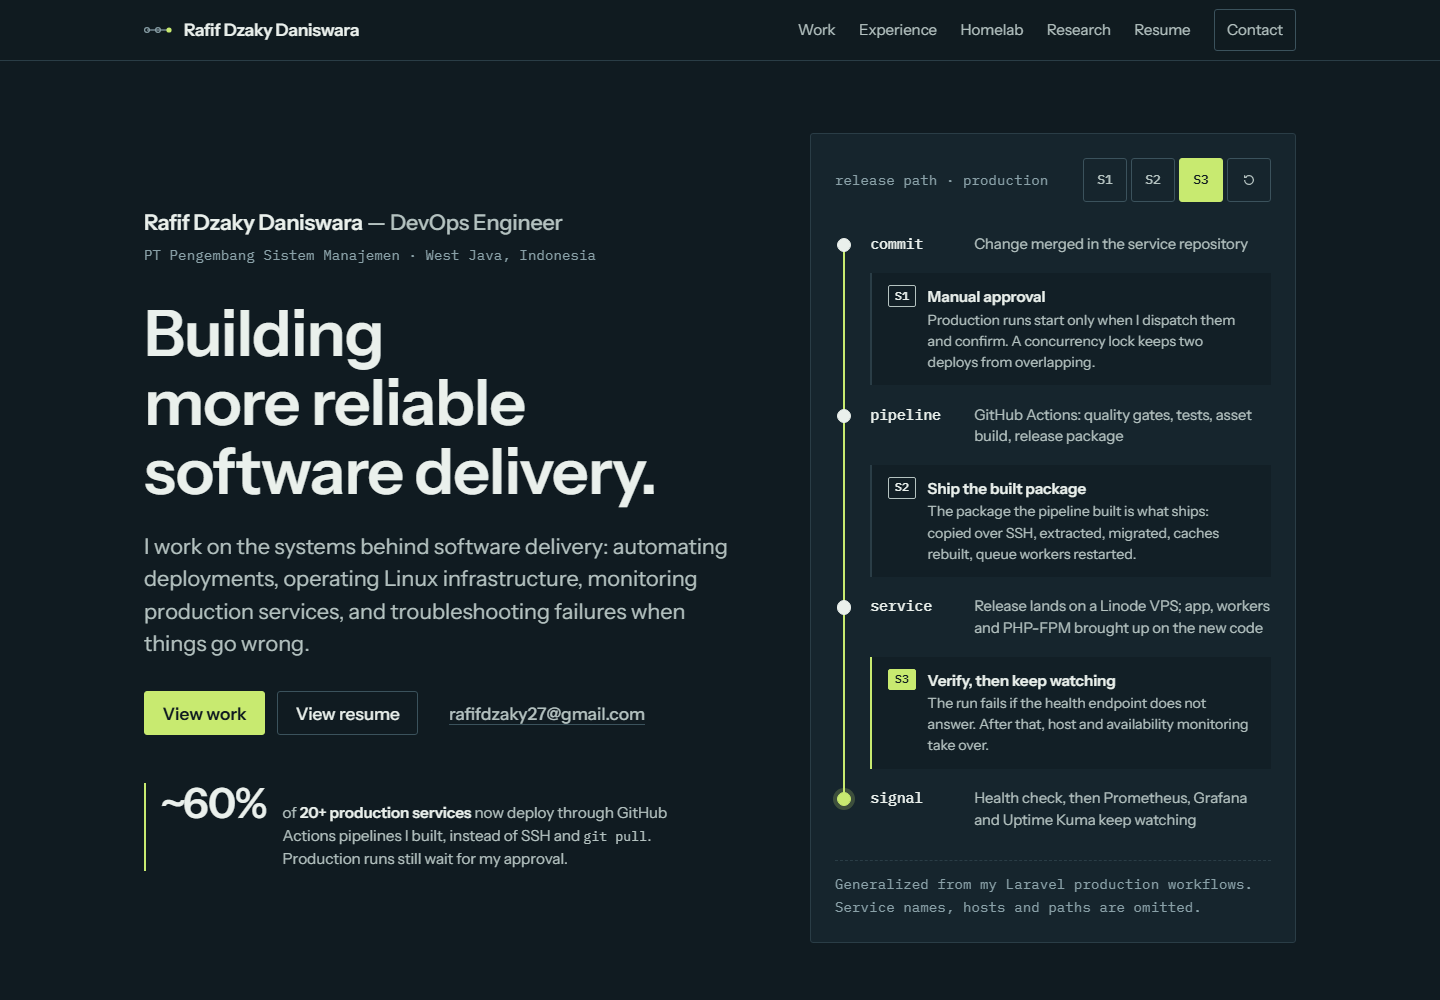
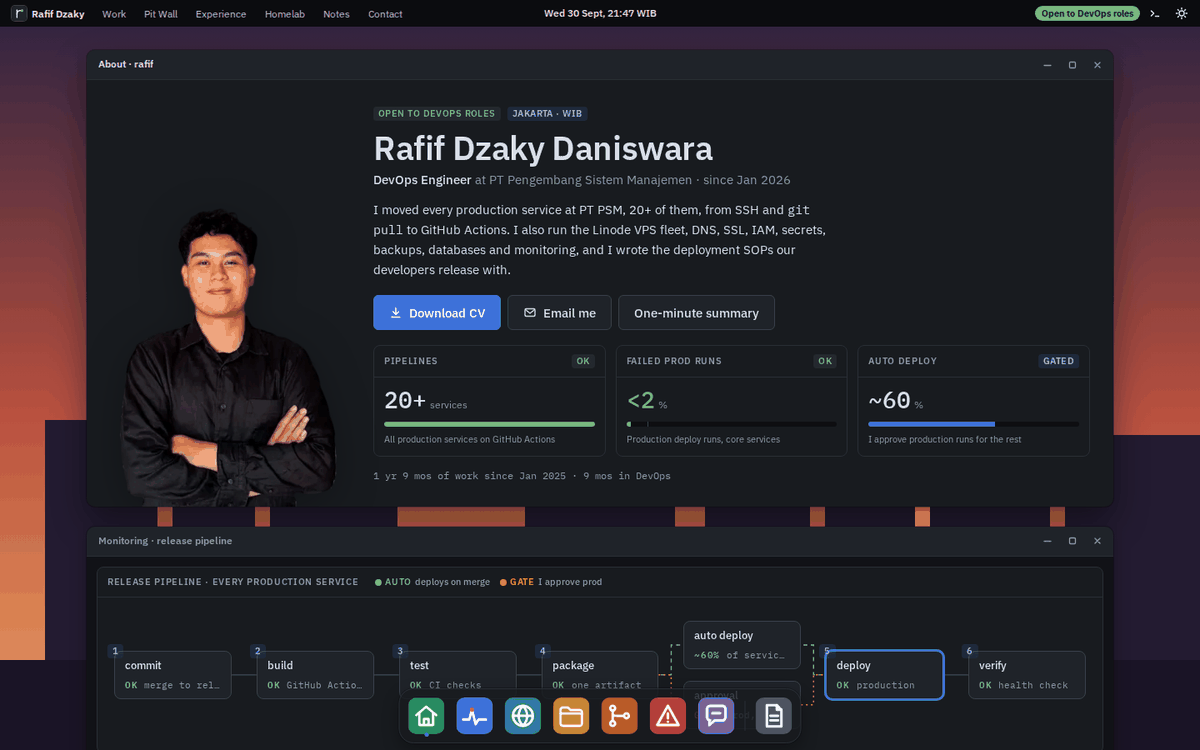
docs: README and design rationale for the PitOS redesign
Describe the PitOS windows, tokens, type and deploy flow, list the new
paths, and replace the preview screenshot.

diff --git a/docs/design-rationale.md b/docs/design-rationale.md
@@ -1,35 +1,56 @@
-# Design rationale: "Release boarding pass"
+# Design rationale: PitOS
 
-**Who visits:** recruiters and hiring managers for DevOps, cloud infrastructure,
-SRE and platform roles. In under a minute they should see who Rafif is (photo,
-role, education seal), the headline evidence (20+ services, <2% failed prod
-runs) and how to reach him.
+**Who visits:** recruiters and hiring managers for DevOps, SRE, platform and
+infrastructure roles. In under a minute they should see who Rafif is, the
+headline evidence (20+ services on GitHub Actions, <2% failed production
+runs, ~60% deployed automatically) and how to reach him.
 
-**Idea:** a release is a trip from `commit` to `production`. The hero is a
-boarding pass (photo stub, passenger fields, an ink stamp for S.Kom · GPA 3.87
-· cum laude). Sections are "gates", experience is an itinerary, and contact is
-the final call. The route map shows the real 60% split: an auto lane, and a
-production lane that stops at Rafif's approval gate.
+**Idea:** the site uses the desktop from Pit Wall On-Call, the on-call game
+Rafif builds and runs. That desktop is called PitOS. Each section is an app
+window, so the page reads like a shift at work:
 
-**Palette (light only, one surface family):**
+| Window | App it borrows from | What it holds |
+|---|---|---|
+| About | Home | Photo, role, three headline numbers, CV and email |
+| Release pipeline | Monitoring | The release pipeline as a service map, case studies, what he runs |
+| Pit Wall On-Call | Browser | The game, how it ships, the game-day log |
+| ~/experience | Files | Jobs, degree and certificates, with filters |
+| Homelab | Monitoring | A small service map of the homelab |
+| ~/notes | Files | Postmortems, decisions, status and research |
+| Contact | Settings | Email, phone, LinkedIn, GitHub |
 
-| Token | Use |
-|---|---|
-| `--paper` #F6F1E7 / `--paper-2` #EFE8DA | page / alternating bands |
-| `--card` #FFFDF8 | tickets and cards |
-| `--ink` #1F2A2E | text, ticket outlines |
-| `--muted` #56646A | secondary text |
-| `--accent` #2D7D9A | actions, active nav, the auto lane |
-| `--stamp` #B8432F | ink stamps and the approval gate only |
+The dock at the bottom is the navigation. On phones it becomes a tab bar.
+Inner pages are stacks of windows too: case studies open in "Docs", incidents
+in "Incident" windows, the résumé in a document viewer.
 
-**Type:** Instrument Sans + IBM Plex Mono (both self-hosted, OFL).
+**Tokens:** copied from `pit-wall-on-call/apps/web/src/styles/tokens.css`, so
+the site and the game are one system. Dark is the default. The top bar switch
+sets `data-theme="light"` on `<html>` and saves the choice in `localStorage`
+(`pitos-theme`).
 
-**Motion:** a plane on the hero route and packets on the route map. Both have a
-Hold button, pause off-screen, and are static under `prefers-reduced-motion`.
+| Token | Dark | Light | Use |
+|---|---|---|---|
+| `--bg` | #111217 | #f4f5f7 | Page behind the windows |
+| `--panel` | #181b1f | #ffffff | Window and panel surface |
+| `--text` | #d8dee9 | #1f2329 | Body text |
+| `--muted` | #8e97a5 | #5a6270 | Secondary text |
+| `--accent` | #3d71d9 | #2f5fc4 | Actions, links, selected node |
+| `--ok` / `--warn` / `--crit` | #73bf69 / #ff9830 / #f2495c | #2a7d34 / #b85c12 / #c9283b | Status only, always with a text label |
 
-**Deliberately different from the reference site:** no dotted-grid paper, no
-washi tape, no polaroid, and no bullet-journal glyph set. Status uses
-● running / ◐ partial / ○ planned, always with a text label.
+`--faint` is lifted from the game's #5f6875 to #7d8591 so small text passes
+4.5:1 contrast.
 
-**Left out on purpose:** skill bars, logo walls, team logos, live status
-counters, analytics, the paper PDF (unpublished).
+**Type:** IBM Plex Sans and IBM Plex Mono, self-hosted through Fontsource
+(OFL). Interface text is 13px, like the game. Case studies and notes use a
+larger reading scale (`--step-*`).
+
+**Wallpapers:** inline SVGs from the game, Jakarta at dusk for dark and
+Yogyakarta for light.
+
+**Motion:** only the animated "auto" edges on the pipeline map and small
+hover states. The home page marks the window in view as focused. All of it
+stops under `prefers-reduced-motion`.
+
+**Left out on purpose:** skill bars, logo walls, team logos, hobbies,
+analytics, the paper PDF (unpublished), and anything the game has that a
+visitor would have to learn first (window dragging, a start menu).

diff --git a/README.md b/README.md
@@ -1,11 +1,16 @@
 # rafif-portfolio
 
-Personal engineering portfolio for Rafif Dzaky Daniswara. Static site built with Astro.
+Personal engineering portfolio for Rafif Dzaky Daniswara, live at
+[rafifdzaky.com](https://rafifdzaky.com). Static site built with Astro, styled
+as PitOS, the desktop from [Pit Wall On-Call](https://github.com/rafifdzaky27/pit-wall-on-call).
+
+![The homepage in dark mode](docs/preview-desktop.png)
 
 ```bash
 npm install
 npm run dev          # http://localhost:4321
-npm run build        # outputs dist/
+npm run build        # outputs dist/, then adds the CSP hashes
+npm run check        # astro check (types)
 npm run check:links  # build + verify every internal link and anchor
 ```
 
@@ -14,19 +19,29 @@ npm run check:links  # build + verify every internal link and anchor
 | Path | What |
 |---|---|
 | `src/data/profile.ts` | Contact, experience, skills, education, credentials |
+| `src/data/pitwall.ts` | Pit Wall On-Call screenshots, dark and light |
 | `src/data/homelab.ts` | Homelab items, troubleshooting notes, 31-module roadmap with statuses |
-| `src/content/work/*.mdx` | Case studies (CI/CD, monitoring, Linux ops) |
-| `src/components/DeliveryPath.astro` | Interactive hero diagram |
+| `src/data/ops.ts` | Postmortems, architecture decisions, first-90-days plan |
+| `src/content/work/*.mdx` | Case studies (CI/CD, monitoring, Linux ops, Pit Wall On-Call) |
+| `src/components/os/` | PitOS shell: window, dock, wallpapers, icon sprite |
 | `src/components/diagrams/` | Case-study diagrams |
-| `src/styles/tokens.css` | Colour, type, spacing, motion tokens |
+| `src/styles/tokens.css` | Colour, type, spacing and motion tokens, dark and light |
+| `src/styles/pitos.css` | Shared PitOS parts: windows, panels, service maps, file lists |
 | `public/Rafif_Dzaky_Daniswara_Resume.pdf` | Résumé served for View / Download |
 | `pipeline-templates/` | v2 Laravel CI/CD templates (draft; not part of the site build) |
 | `docs/design-rationale.md` | Design decisions |
+
+## Deploy
+
+A merge to `main` runs `.github/workflows/deploy.yml`. It builds the site,
+checks links, runs a mobile Lighthouse budget (`scripts/lighthouse.mjs`),
+copies the release to the homelab over Tailscale, and verifies the origin,
+the public site and the security headers. `.github/workflows/status.yml`
+checks the public site every 15 minutes and feeds `/status`.
 
 ## Updating
 
 - **New résumé:** replace `public/Rafif_Dzaky_Daniswara_Resume.pdf` (keep the filename).
 - **Homelab module done:** change its `state` in `src/data/homelab.ts`. Do it only once there's a repo, screenshot or log to back it.
-- **Domain chosen:** set `site` in `astro.config.mjs` for canonical and OG URLs.
-
-`dist/` is plain static files and can be hosted on any static host.
+- **New case study:** add an `.mdx` file to `src/content/work/` with the same front matter as the others. `order` sets its place.
+- **New Pit Wall screenshots:** replace the files in `src/assets/pitwall/`. Keep a dark and a light version.
